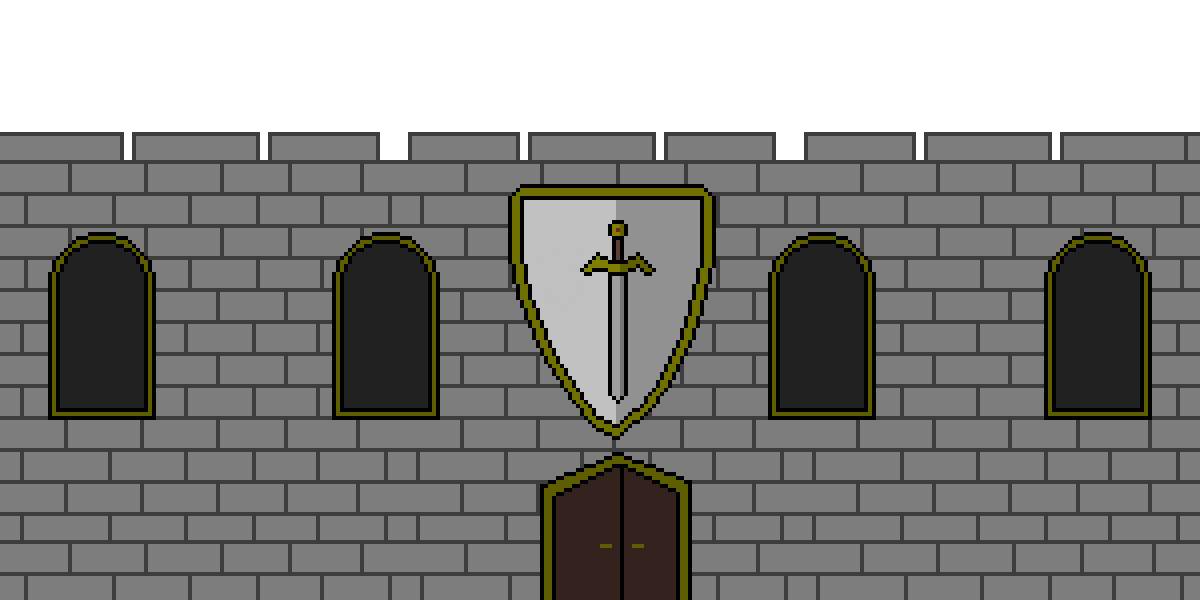
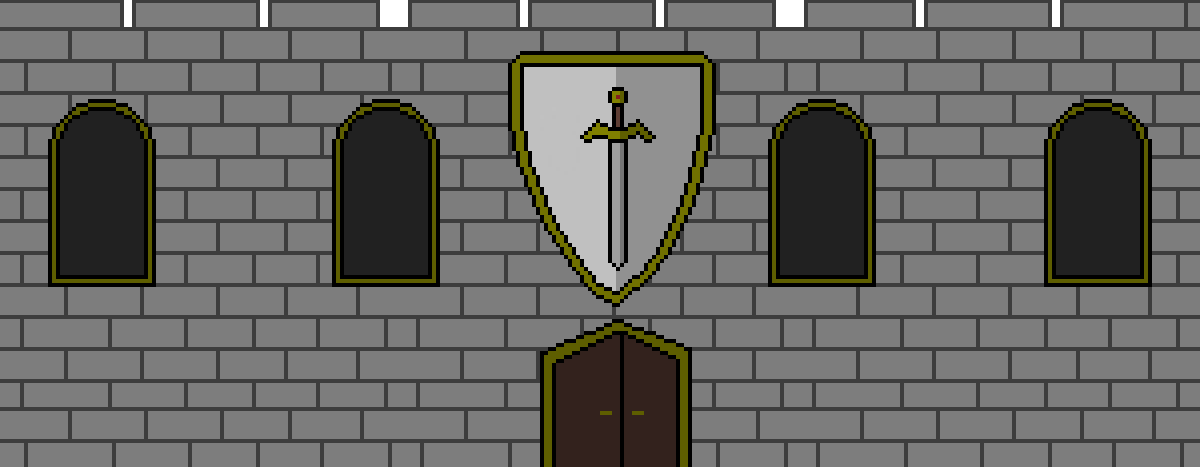
feat: two types of invaders and working check collision function

diff --git a/src/application/main/GameTimer.java b/src/application/main/GameTimer.java
@@ -9,6 +9,8 @@ import javafx.scene.canvas.GraphicsContext;
 import javafx.scene.image.Image;
 import javafx.scene.input.KeyCode;
 import javafx.scene.input.KeyEvent;
+import application.sprite.ShieldedInvader;
+import application.sprite.UnshieldedInvader;
 import application.main.GameStage;
 import application.sprite.Bullet;
 import application.sprite.Cannon;
@@ -36,7 +38,7 @@ public class GameTimer extends AnimationTimer {
 		this.gc = gc;
 		this.theScene = theScene;
 		this.myCannon = new Cannon("Going merry", 178, 520);
-		this.myCastle = new Castle("Going merry", 0, 552);
+		this.myCastle = new Castle("Going merry", 0, 590);
 		// instantiate the ArrayList of Cannon
 		this.invaders = new ArrayList<Invader>();
 
@@ -99,12 +101,22 @@ public class GameTimer extends AnimationTimer {
 	// method that will spawn/instantiate three invaders at a random x,y location
 	private void spawnInvaders() {
 		Random r = new Random();
+		Random invaderType = new Random();
 		for (int i = 0; i < GameTimer.MAX_NUM_INVADERS; i++) {
 			int x = r.nextInt(GameStage.WINDOW_WIDTH- Invader.Invader_WIDTH);
+			int itype = invaderType.nextInt(2);
 
-			Invader invader = new Invader(x,0); //add a new object rock to the rocks arraylist
+			if(itype == 0){
+	        	ShieldedInvader invader = new ShieldedInvader(x,0); //instantiate a shielded invader
+	        	this.invaders.add(invader);
+	        }else if(itype == 1){
+	        	UnshieldedInvader invader = new UnshieldedInvader(x,0); //instantiate a unshielded invader
+	        	this.invaders.add(invader);
+	        }
 
-            this.invaders.add(invader);
+			//Invader invader = new Invader(x,0); //add a new object rock to the rocks arraylist
+
+
 			/*
 			 * TODO: Add a new object Invader to the invaders arraylist
 			 */
@@ -145,7 +157,7 @@ public class GameTimer extends AnimationTimer {
 
 			if(f.isAlive()){ //if alive, call move method
                 f.move();
-                //f.checkCollision(this.myCastle); //check if the rock collides with myShip
+                f.checkCollision(this.myCastle, this.myCannon); //check if the rock collides with myShip
             }else{ //if not alive, remove the rock from the rock arraylist
                 invaders.remove(i);
             }

diff --git a/src/application/sprite/Invader.java b/src/application/sprite/Invader.java
@@ -5,19 +5,19 @@ import java.util.Random;
 import javafx.scene.image.Image;
 
 public class Invader extends Sprite {
-    public static final int MAX_Invader_SPEED = 5;
-    public final static Image Invader_IMAGE = new Image("images/invader1.png", Invader.Invader_WIDTH,
-            Invader.Invader_WIDTH, false, false);
+    public static final int MAX_Invader_SPEED = 2;
+
     public final static int Invader_WIDTH = 80;
     private boolean alive;
+    private int life;
     // attribute that will determine if a Invader will initially move to the right
 //    private boolean moveRight;
     private int speed;
 
-    public Invader(int x, int y) {
+    public Invader(int x, int y, int life) {
         super(x, y);
         this.alive = true;
-        this.loadImage(Invader.Invader_IMAGE);
+        this.life = life;
         Random r = new Random(); //instantiate a randomizer
 		this.speed = (r.nextInt(Invader.MAX_Invader_SPEED) + 1); //set the speed of the rock to a random value between 1 to 5
 //		this.moveRight = r.nextBoolean();
@@ -45,6 +45,43 @@ public class Invader extends Sprite {
          * else if it has reached the boundary, change the moveRight value / move to the
          * right
          */
+    }
+
+    void isDead(){
+		this.alive = false;
+	}
+
+    void decreaseLife() {
+    	this.life -= 1;
+    }
+
+    private int getLife() {
+    	return this.life;
+    }
+
+    public void checkCollision(Castle castle, Cannon cannon) {
+    	for(int i = 0; i<cannon.getBullets().size(); i++){
+			if(this.collidesWith(cannon.getBullets().get(i))){
+//				this.playExplosionSound();
+				cannon.getBullets().get(i).setVisible(false);
+				this.decreaseLife();
+				if(this.getLife() == 0) {
+					this.isDead();
+					this.setVisible(false);
+				}
+
+//				ship.increaseScore();
+			}
+		}
+		if(this.collidesWith(castle)){
+//			this.playCollisionSound();
+//			if(ship.isImmune() == false){
+//				ship.reduceStrength(Rock.ROCK_DAMAGE);
+//			}
+			this.isDead();
+			this.setVisible(false);
+
+		}
     }
 
     // getter

diff --git a/src/application/sprite/Castle.java b/src/application/sprite/Castle.java
@@ -7,7 +7,7 @@ public class Castle extends Sprite {
     private boolean alive;
     public final static Image Castle_IMAGE = new Image("images/castle.png", Castle.Castle_WIDTH, Castle.Castle_HEIGHT,
             false, false);
-    private final static int Castle_HEIGHT = 216;
+    private final static int Castle_HEIGHT = 178;
     private final static int Castle_WIDTH = 432;
 
     public Castle(String name, int x, int y) {

diff --git a/src/application/sprite/UnshieldedInvader.java b/src/application/sprite/UnshieldedInvader.java
@@ -1,0 +1,13 @@
+package application.sprite;
+
+import javafx.scene.image.Image;
+
+public class UnshieldedInvader extends Invader {
+	public final static Image UnshieldedInvader_IMAGE = new Image("images/invader2.png", Invader.Invader_WIDTH,
+            Invader.Invader_WIDTH, false, false);
+
+	public UnshieldedInvader (int x, int y) {
+		super(x, y, 1);
+		this.loadImage(UnshieldedInvader_IMAGE);
+	}
+}

diff --git a/src/application/sprite/ShieldedInvader.java b/src/application/sprite/ShieldedInvader.java
@@ -1,0 +1,13 @@
+package application.sprite;
+
+import javafx.scene.image.Image;
+
+public class ShieldedInvader extends Invader{
+	public final static Image ShieldedInvader_IMAGE = new Image("images/invader1.png", Invader.Invader_WIDTH,
+            Invader.Invader_WIDTH, false, false);
+
+	public ShieldedInvader (int x, int y) {
+		super(x, y, 2);
+		this.loadImage(ShieldedInvader_IMAGE);
+	}
+}
